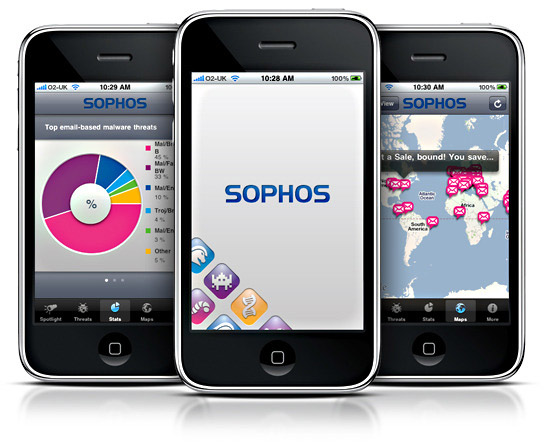
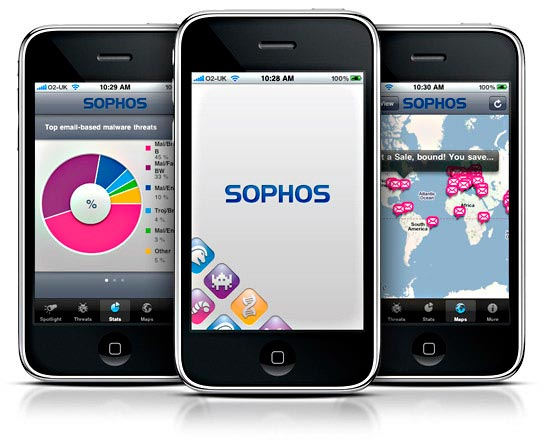
convert first image png to jpg and fix margin-left of the card on desktop on about and cotact page

diff --git a/about.html b/about.html
@@ -73,7 +73,7 @@
                 </div>
                 <div class="about__right">
                     <div class="card">
-                        <img class="card__image" src="./assets/demo1.png">
+                        <img class="card__image" src="./assets/demo1.jpg">
                         <div>
                             <h3 class="card__title">Lorem Ipsum</h3>
                             <p class="card__text">Lorem ipsum dolor sit amet consectetur adipisicing elit. Ratione recusandae laboriosam debitis ipsum incidunt cumque magni modi omnis aperiam ut, itaque sit sint obcaecati necessitatibus nostrum, reprehenderit distinctio quibusdam! Sequi.</p>

diff --git a/index.html b/index.html
@@ -54,7 +54,7 @@
         <section class="cards wrapper">
             <div class="cards__container">
                 <div class="card">
-                    <img class="card__image" src="./assets/demo1.png">
+                    <img class="card__image" src="./assets/demo1.jpg">
                     <div>
                         <h3 class="card__title">Lorem Ipsum</h3>
                         <p class="card__text">Lorem ipsum dolor sit amet consectetur adipisicing elit. Ratione recusandae laboriosam debitis ipsum incidunt cumque magni modi omnis aperiam ut, itaque sit sint obcaecati necessitatibus nostrum, reprehenderit distinctio quibusdam! Sequi.</p>

diff --git a/contact.html b/contact.html
@@ -60,7 +60,7 @@
                 <section class="contact__right">
                     <div class="card">
                         <figure>
-                            <img class="card__image" src="./assets/demo1.png">
+                            <img class="card__image" src="./assets/demo1.jpg">
                         </figure>
                         <div>
                             <h3 class="card__title">Lorem Ipsum</h3>

diff --git a/styles/styles.css b/styles/styles.css
@@ -346,7 +346,7 @@
 }
 
 .hero {
-  background-image: url("../assets/site_showcase_bg.jpg");
+  background-image: url("../../../assets/site_showcase_bg.jpg");
   color: #fff;
 }
 
@@ -791,12 +791,13 @@ body {
 }
 
 .contact .card {
-  margin: 0px;
+  margin: 20px 0 0;
+  width: 100%;
 }
 
 @media (min-width: 1200px) {
   .contact .card {
-    margin: 0 0 0 30px;
+    margin: 0 0 0 20px;
   }
 }
 

diff --git a/styles/styles.scss b/styles/styles.scss
@@ -75,9 +75,10 @@ body {
         flex: 1;
     }
     .card {
-        margin: 0px;
+        margin: 20px 0 0;
+        width: 100%;
         @include media(desktop) {
-            margin: 0 0 0 30px;
+            margin: 0 0 0 20px;
         }
         @include media(tablet) {
             width: 100%;
